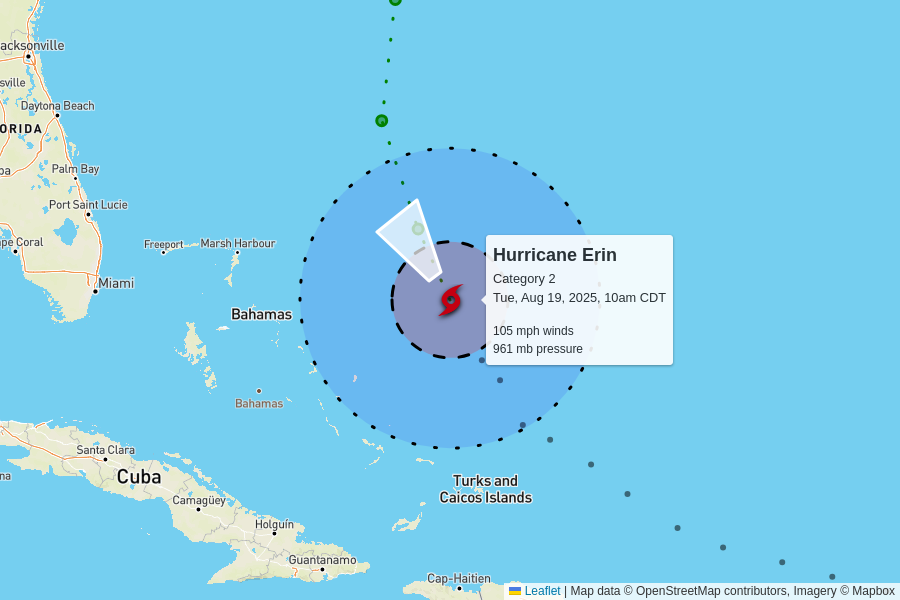
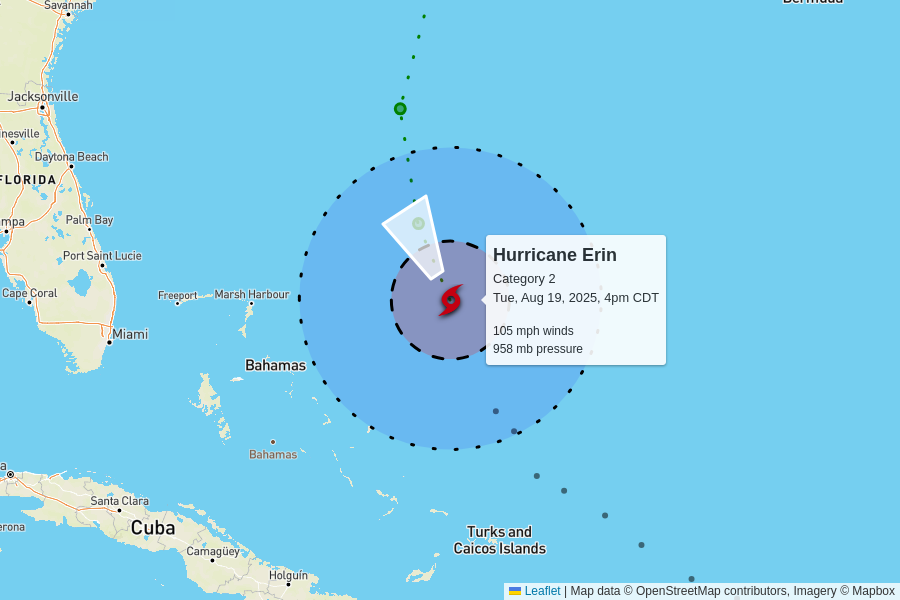
automatic update

diff --git a/docs/index.html b/docs/index.html
@@ -102,7 +102,7 @@
         <td colspan="6" class="storm category-2" >
           <h2>
             Hurricane Erin - Category 2
-            <p class="updated">last updated <span data-time>2025-08-19T15:00:00.000Z</span></p>
+            <p class="updated">last updated <span data-time>2025-08-19T21:00:00.000Z</span></p>
           </h2>
         </td>
       </tr>
@@ -117,12 +117,12 @@
       </tr>
       <tr>
         <td class="spacer"></td>
-        <td>105 mph<br>-10 mph since last update</td>
-        <td>961 mb<br>+6 mb since last update</td>
+        <td>105 mph<br>0 mph since last update</td>
+        <td>958 mb<br>-3 mb since last update</td>
         <td>
-          9 mph to the northwest
+          10 mph to the north-northwest
           <br/>
-          <span style="display: inline-block; font-size: 1.5em; transform: rotate(325deg);">↑</span>
+          <span style="display: inline-block; font-size: 1.5em; transform: rotate(330deg);">↑</span>
         </td>
         <td><a href="https://raw.githubusercontent.com/mgwalker/atlantic-hurricanes/main/data/csv/AL052025.csv">AL052025.csv</a></td>
         <td><a href="https://www.nhc.noaa.gov/archive/2025/ERIN.shtml?">NHC advisories</a></td>
